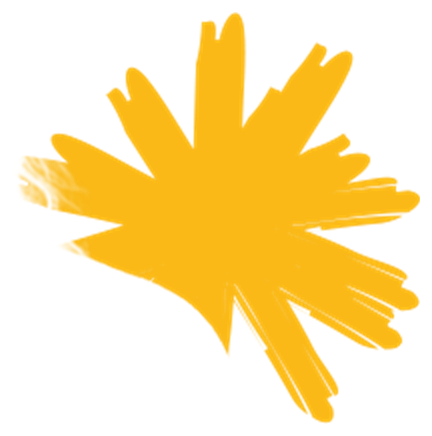
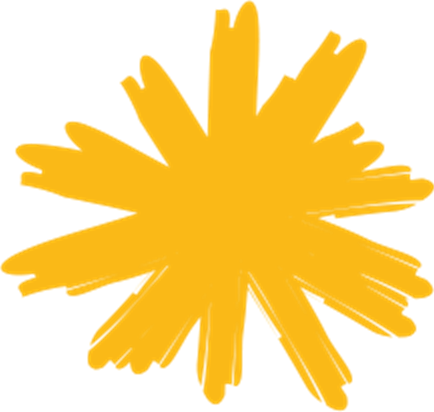
Add files via upload

Changed region(s): [[0.0, 0.0, 1.0, 1.0], [0.6319, 0.6408, 0.662, 0.6699]]

diff --git a/css/style.css b/css/style.css
@@ -72,7 +72,7 @@ button, input, textarea { font: inherit; color: inherit; }
 .skip-link:focus { top: calc(var(--u) * 16); }
 :focus-visible { outline: calc(var(--u) * 3) solid var(--green); outline-offset: calc(var(--u) * 3); }
 
-.page { position: relative; overflow: hidden; }
+.page { position: relative; overflow: hidden; overflow: clip; } /* clip: לא ניתן לגלילה בטעות (פוקוס/קרוסלה) */
 section, header.hero, footer { position: relative; }
 .deco { position: absolute; pointer-events: none; user-select: none; }
 
@@ -103,7 +103,7 @@ section, header.hero, footer { position: relative; }
 .nav {
   position: relative; z-index: 20;
   margin: calc(var(--u) * 12) calc(var(--u) * 12) 0;
-  height: calc(var(--u) * 62);
+  height: calc(var(--u) * 80);
   background: var(--white);
   display: flex; align-items: center; justify-content: space-between;
   padding: 0 calc(var(--u) * 18);
@@ -131,12 +131,12 @@ section, header.hero, footer { position: relative; }
 .nav__star { display: none; }
 
 /* ---------- hero ---------- */
-.hero { display: flex; flex-direction: column; padding-top: calc(var(--u) * 74); }
+.hero { display: flex; flex-direction: column; padding-top: calc(var(--u) * 92); }
 .hero .nav { order: 0; }
 .hero__content { order: 1; }
 .hero__photo { order: 2; }
 .hero__bg { position: absolute; inset: 0; z-index: 0; }
-.hero__scribble { z-index: 2; mix-blend-mode: color-burn; width: calc(var(--u) * 200); top: calc(var(--u) * 40); left: calc(var(--u) * -70); }
+.hero__scribble { z-index: 2; mix-blend-mode: color-burn; width: calc(var(--u) * 190); top: calc(var(--u) * -30); left: calc(var(--u) * -75); }
 .hero__dots-l   { z-index: 2; mix-blend-mode: multiply; width: calc(var(--u) * 170); bottom: calc(var(--u) * 60); left: 0; }
 .hero__dots-r   { z-index: 2; mix-blend-mode: multiply; width: calc(var(--u) * 150); top: 0; right: 0; }
 .hero__star     { z-index: 2; mix-blend-mode: multiply; width: calc(var(--u) * 120); bottom: calc(var(--u) * 150); right: calc(var(--u) * 0); }
@@ -879,6 +879,119 @@ html.a11y-still .footer__skate { translate: 70vw 0; }
 .hero__bg {
   -webkit-mask-image: linear-gradient(#000 78%, transparent 100%);
           mask-image: linear-gradient(#000 78%, transparent 100%);
+}
+
+/* =========================================================
+   סרטוני המלצה (ריילס) – ממחזר את הסקשן הירוק של התהליך
+   ========================================================= */
+.reels {
+  background: var(--green-dark);
+  padding: calc(var(--u) * 30) 0 calc(var(--u) * 140);
+  text-align: center;
+}
+/* המברשת הירוקה עולה מעל תחתית "מי אני", הצהובה יורדת אל האזור הצהוב שאחרי */
+.reels .brush--green { z-index: 2; }
+.reels .brush--yellow { z-index: 6; }
+.reels .title, .reels__text, .reels__carousel { position: relative; z-index: 7; }
+.reels .title { padding: 0 calc(var(--u) * 20); }
+.reels__text { margin-top: calc(var(--u) * 14); padding: 0 calc(var(--u) * 20); color: var(--white); font-size: calc(var(--ft) * 19); line-height: 1.15; }
+
+/* מסילה: גלילה אופקית עם הצמדה, הכרטיס הפעיל במרכז והשכנים מציצים */
+.reels__track {
+  display: flex; gap: calc(var(--u) * 18);
+  margin-top: calc(var(--u) * 16);
+  padding: calc(var(--u) * 30) calc(var(--u) * 85) calc(var(--u) * 24);
+  overflow-x: auto; overscroll-behavior-x: contain;
+  scroll-snap-type: x mandatory; scrollbar-width: none;
+}
+.reels__track::-webkit-scrollbar { display: none; }
+.reel { flex: 0 0 calc(var(--u) * 260);scroll-snap-align: center; position: relative; transition: scale .4s cubic-bezier(.2,.7,.2,1), opacity .4s; }
+.reel:nth-child(1) { rotate: -2.5deg; }
+.reel:nth-child(2) { rotate: 2deg; }
+.reel:nth-child(3) { rotate: -1.5deg; }
+/* סלוטייפ כמו בהמלצות הוואטסאפ */
+.reel::before {
+  content: ""; position: absolute; z-index: 3; top: calc(var(--u) * -14); left: 50%;
+  width: calc(var(--u) * 90); height: calc(var(--u) * 28);
+  translate: -50% 0; rotate: var(--tape, -6deg);
+  background: rgba(238, 230, 205, .85);
+  box-shadow: 0 calc(var(--u) * 1) calc(var(--u) * 3) rgba(0,0,0,.15);
+  clip-path: polygon(0 8%, 6% 0, 10% 12%, 15% 2%, 85% 0, 90% 10%, 94% 0, 100% 9%, 97% 50%, 100% 92%, 93% 100%, 88% 88%, 83% 100%, 15% 98%, 10% 88%, 5% 100%, 0 92%, 3% 50%);
+}
+.reel:nth-child(2)::before { --tape: 5deg; }
+.reel__frame {
+  position: relative; aspect-ratio: 9 / 16; overflow: hidden;
+  background: #0b5a55;
+  border: calc(var(--u) * 6) solid var(--white);
+  box-shadow: 0 calc(var(--u) * 10) calc(var(--u) * 24) rgba(0,0,0,.3);
+}
+.reel__frame video { width: 100%; height: 100%; object-fit: cover; background: #000; }
+.reel__empty {
+  position: absolute; inset: 0;
+  display: flex; flex-direction: column; align-items: center; justify-content: center; gap: calc(var(--u) * 14);
+  color: var(--mint); font-size: calc(var(--ft) * 16);
+  background: repeating-linear-gradient(-45deg, rgba(14,224,174,.06) 0 calc(var(--u) * 10), transparent calc(var(--u) * 10) calc(var(--u) * 20));
+}
+.reel__play {
+  width: calc(var(--u) * 64); height: calc(var(--u) * 64); border-radius: 50%;
+  background: var(--yellow); position: relative;
+  transition: transform .35s cubic-bezier(.3,1.6,.5,1);
+}
+.reel__play::after {
+  content: ""; position: absolute; top: 50%; left: 54%; translate: -50% -50%;
+  border-style: solid; border-color: transparent transparent transparent var(--ink);
+  border-width: calc(var(--u) * 11) 0 calc(var(--u) * 11) calc(var(--u) * 18);
+}
+.reel:hover .reel__play { transform: scale(1.1) rotate(-6deg); }
+
+/* כרטיסים שאינם במרכז קטנים ומעומעמים מעט (במובייל בלבד – JS מסמן is-active) */
+.reels__track.is-ready .reel:not(.is-active):not(.reveal), .reels__track.is-ready .reel.is-visible:not(.is-active) { scale: .9; opacity: .65; }
+.js .reel.reveal { transition: opacity .9s ease, transform .9s cubic-bezier(.2,.7,.2,1), scale .4s cubic-bezier(.2,.7,.2,1); transition-delay: var(--delay, 0s), var(--delay, 0s), 0s; }
+
+.reels__controls { display: flex; align-items: center; justify-content: center; gap: calc(var(--u) * 18); margin-top: calc(var(--u) * 4); }
+.reels__btn {
+  width: calc(var(--u) * 46); height: calc(var(--u) * 46); border-radius: 50%; border: 0; padding: 0; cursor: pointer;
+  background: var(--yellow); color: var(--ink);
+  display: flex; align-items: center; justify-content: center;
+  transition: transform .3s cubic-bezier(.3,1.6,.5,1), opacity .2s;
+}
+.reels__btn svg { width: 50%; height: 50%; }
+.reels__btn:hover { transform: rotate(-8deg) scale(1.08); }
+.reels__btn[disabled] { opacity: .35; cursor: default; transform: none; }
+.reels__dots { display: flex; gap: calc(var(--u) * 8); }
+.reels__dot {
+  width: calc(var(--u) * 10); height: calc(var(--u) * 10); padding: 0; border: 0; border-radius: calc(var(--u) * 10); cursor: pointer;
+  background: rgba(255,255,255,.4); transition: width .3s, background-color .3s;
+}
+.reels__dot[aria-current="true"] { width: calc(var(--u) * 28); background: var(--mint); }
+
+@media (min-width: 768px) {
+  .reels { padding: calc(var(--u) * 40) calc(var(--u) * 60) calc(var(--u) * 230); }
+  .reels__text { font-size: calc(var(--ft) * 22); }
+  /* בטאבלט ומעלה שלושת הסרטונים נכנסים בשורה – בלי קרוסלה */
+  .reels__track { overflow: visible; justify-content: center; gap: calc(var(--u) * 40); padding: calc(var(--u) * 40) 0 0; margin-top: calc(var(--u) * 20); }
+  .reel { flex: 0 0 calc(var(--u) * 250); }
+  .reel:nth-child(2) { translate: 0 calc(var(--u) * 30); }
+  .reels__track.is-ready .reel.is-visible:not(.is-active), .reels__track.is-ready .reel:not(.is-active):not(.reveal) { scale: none; opacity: 1; }
+  .reels__controls, .reels__text .mobile-br { display: none; }
+  .reel__empty { font-size: calc(var(--ft) * 18); }
+  .reels .brush--yellow { bottom: calc(var(--u) * -330); }
+}
+@media (min-width: 1200px) {
+  .reels { min-height: calc(var(--u) * 1180); padding: calc(var(--u) * 49) 0 calc(var(--u) * 360); }
+  .reels__text { margin-top: calc(var(--u) * 24); font-size: calc(var(--ft) * 32); }
+  .reels__track { gap: calc(var(--u) * 70); padding-top: calc(var(--u) * 60); }
+  .reel { flex-basis: calc(var(--u) * 340); }
+  .reel:nth-child(2) { translate: 0 calc(var(--u) * 50); }
+  .reel::before { top: calc(var(--u) * -22); width: calc(var(--u) * 140); height: calc(var(--u) * 42); }
+  .reel__frame { border-width: calc(var(--u) * 10); }
+  .reel__play { width: calc(var(--u) * 96); height: calc(var(--u) * 96); }
+  .reel__play::after { border-width: calc(var(--u) * 16) 0 calc(var(--u) * 16) calc(var(--u) * 26); }
+  .reel__empty { font-size: calc(var(--ft) * 24); gap: calc(var(--u) * 20); }
+  .reels .brush--yellow { top: auto; bottom: calc(var(--u) * -634); }
+}
+@media (prefers-reduced-motion: reduce) {
+  .reels__track { scroll-behavior: auto; }
 }
 
 /* פרויקטים במובייל: שני טורים, קומפקטי */

diff --git a/index.html b/index.html
@@ -13,10 +13,10 @@
   <link rel="icon" href="assets/logo.svg" type="image/svg+xml">
   <link rel="preload" href="fonts/Danidin-CondensedBlack.woff2" as="font" type="font/woff2" crossorigin>
   <link rel="preload" href="fonts/Polin-Regular.woff2" as="font" type="font/woff2" crossorigin>
-  <link rel="stylesheet" href="css/style.css?v=9">
-  <link rel="stylesheet" href="css/a11y.css?v=9">
+  <link rel="stylesheet" href="css/style.css?v=11">
+  <link rel="stylesheet" href="css/a11y.css?v=11">
   <script>document.documentElement.classList.add("js");</script>
-  <script src="js/a11y.js?v=9"></script>
+  <script src="js/a11y.js?v=11"></script>
 </head>
 <body>
 <a class="skip-link" href="#main">דילוג לתוכן הראשי</a>
@@ -49,7 +49,7 @@
     <img class="deco hero__scribble" src="assets/scribble-teal.svg" alt="" aria-hidden="true">
     <img class="deco hero__dots-l" src="assets/dots-left.jpg" alt="" aria-hidden="true">
     <img class="deco hero__dots-r" src="assets/dots-right.jpg" alt="" aria-hidden="true">
-    <img class="deco hero__star" src="assets/star-yellow.png" alt="" aria-hidden="true">
+    <img class="deco hero__star" src="assets/star-yellow.png?v=11" alt="" aria-hidden="true">
     <img class="hero__photo" src="assets/amit-hero.jpg" alt="עמית סיגאוי מחייכת עם כובע טמבל" width="940" height="918" fetchpriority="high">
     <img class="deco brush brush--hero" src="assets/brush-white.svg" alt="" aria-hidden="true">
 
@@ -100,7 +100,6 @@
     <!-- ===== ABOUT ===== -->
     <section class="about" id="about" aria-labelledby="about-title">
       <div class="about__bg" aria-hidden="true"></div>
-      <img class="deco brush brush--yellow" src="assets/brush-yellow.svg" alt="" aria-hidden="true">
 
       <div class="about__badge">
         <img class="about__badge-bg" src="assets/brush-dark.svg" alt="" aria-hidden="true">
@@ -126,6 +125,47 @@
         <figure class="chat chat--2"><img src="assets/chat-2.jpg" alt="הודעת וואטסאפ: המיתוג ממש מזניק הכל!" loading="lazy" width="584" height="115"></figure>
         <figure class="chat chat--3"><img src="assets/chat-3.jpg" alt="שיחת וואטסאפ עם לקוח שמספר שהאתר נראה מקצועי ושכבר קיבל עשרות פניות" loading="lazy" width="744" height="759"></figure>
       </div>
+    </section>
+
+    <!-- ===== REELS – סרטוני המלצה =====
+         להוספת סרטון: מחליפים את <div class="reel__empty">…</div> של אותה המלצה ב:
+         <video src="assets/reels/reel-1.mp4" poster="assets/reels/reel-1.jpg" controls playsinline preload="none"></video>
+         (הסרטון אנכי 9:16, עדיף MP4 עד ~15MB; ה-poster הוא תמונת הפתיחה) -->
+    <section class="reels" id="reviews" aria-labelledby="reels-title">
+      <img class="deco brush brush--green" src="assets/brush-green.svg" alt="" aria-hidden="true">
+      <h2 class="title title--mint" id="reels-title">אל תסמכו רק עליי</h2>
+      <p class="reels__text">הנה מה ש<strong>הלקוחות שלי מספרים</strong><br class="mobile-br"> אחרי שעבדנו יחד</p>
+
+      <div class="reels__carousel">
+        <ul class="reels__track" aria-label="סרטוני המלצה">
+          <li class="reel">
+            <div class="reel__frame">
+              <div class="reel__empty"><span class="reel__play" aria-hidden="true"></span><span>סרטון המלצה בקרוב</span></div>
+            </div>
+          </li>
+          <li class="reel">
+            <div class="reel__frame">
+              <div class="reel__empty"><span class="reel__play" aria-hidden="true"></span><span>סרטון המלצה בקרוב</span></div>
+            </div>
+          </li>
+          <li class="reel">
+            <div class="reel__frame">
+              <div class="reel__empty"><span class="reel__play" aria-hidden="true"></span><span>סרטון המלצה בקרוב</span></div>
+            </div>
+          </li>
+        </ul>
+        <div class="reels__controls">
+          <button class="reels__btn reels__btn--prev" type="button" aria-label="ההמלצה הקודמת">
+            <svg viewBox="0 0 24 24" aria-hidden="true"><path d="M9 5l7 7-7 7" fill="none" stroke="currentColor" stroke-width="2.4" stroke-linecap="round" stroke-linejoin="round"/></svg>
+          </button>
+          <div class="reels__dots"></div>
+          <button class="reels__btn reels__btn--next" type="button" aria-label="ההמלצה הבאה">
+            <svg viewBox="0 0 24 24" aria-hidden="true"><path d="M15 5l-7 7 7 7" fill="none" stroke="currentColor" stroke-width="2.4" stroke-linecap="round" stroke-linejoin="round"/></svg>
+          </button>
+        </div>
+      </div>
+
+      <img class="deco brush brush--yellow" src="assets/brush-yellow.svg" alt="" aria-hidden="true">
     </section>
 
     <!-- ===== INSTAGRAM (מתעדכן אוטומטית דרך Behold – ראו config.js) ===== -->
@@ -227,7 +267,7 @@
 
 </div>
 
-<script src="js/config.js?v=9"></script>
-<script src="js/main.js?v=9"></script>
+<script src="js/config.js?v=11"></script>
+<script src="js/main.js?v=11"></script>
 </body>
 </html>

diff --git a/js/main.js b/js/main.js
@@ -27,6 +27,7 @@
     [".card"],
     [".process .title", ".process__text", ".video"],
     [".about__badge", ".about__text--a", ".about__text--b", ".about__photo"],
+    [".reels .title", ".reels__text", ".reel"],
     [".chat"],
     [".contact__kicker", ".contact .title", ".contact__text", ".form-wrap"]
   ];
@@ -76,6 +77,59 @@
     window.addEventListener("resize", onScroll);
     window.addEventListener("a11ychange", onScroll);
     update();
+  }
+
+  // ---------- reels carousel (פעיל רק כשהמסילה נגללת – במובייל) ----------
+  var track = document.querySelector(".reels__track");
+  if (track) {
+    var reels = Array.prototype.slice.call(track.querySelectorAll(".reel"));
+    var dotsWrap = document.querySelector(".reels__dots");
+    var prevBtn = document.querySelector(".reels__btn--prev");
+    var nextBtn = document.querySelector(".reels__btn--next");
+    var current = 0;
+    var dots = reels.map(function (r, i) {
+      var d = document.createElement("button");
+      d.type = "button"; d.className = "reels__dot";
+      d.setAttribute("aria-label", "המלצה " + (i + 1) + " מתוך " + reels.length);
+      d.addEventListener("click", function () { goTo(i); });
+      dotsWrap.appendChild(d);
+      return d;
+    });
+    var setActive = function (i) {
+      current = i;
+      reels.forEach(function (r, j) { r.classList.toggle("is-active", j === i); });
+      dots.forEach(function (d, j) { d.setAttribute("aria-current", j === i ? "true" : "false"); });
+      prevBtn.disabled = i === 0;
+      nextBtn.disabled = i === reels.length - 1;
+    };
+    var goTo = function (i) {
+      i = Math.max(0, Math.min(reels.length - 1, i));
+      // ממרכזים לפי מיקום (עובד גם ב-RTL, בלי לגלול את העמוד אנכית)
+      var t = track.getBoundingClientRect(), r = reels[i].getBoundingClientRect();
+      track.scrollBy({ left: (r.left + r.width / 2) - (t.left + t.width / 2), behavior: reduceMotion ? "auto" : "smooth" });
+      setActive(i);
+    };
+    prevBtn.addEventListener("click", function () { goTo(current - 1); });
+    nextBtn.addEventListener("click", function () { goTo(current + 1); });
+    var syncFromScroll = function () {
+      var t = track.getBoundingClientRect(), mid = t.left + t.width / 2, best = 0, bestD = Infinity;
+      reels.forEach(function (r, i) {
+        var b = r.getBoundingClientRect(), dist = Math.abs(b.left + b.width / 2 - mid);
+        if (dist < bestD) { bestD = dist; best = i; }
+      });
+      if (best !== current) setActive(best);
+    };
+    var scrollTick = false;
+    track.addEventListener("scroll", function () {
+      if (!scrollTick) { scrollTick = true; requestAnimationFrame(function () { scrollTick = false; syncFromScroll(); }); }
+    }, { passive: true });
+    setActive(0);
+    track.classList.add("is-ready");
+
+    // רק סרטון אחד מתנגן בכל פעם
+    track.addEventListener("play", function (e) {
+      track.querySelectorAll("video").forEach(function (v) { if (v !== e.target) v.pause(); });
+    }, true);
   }
 
   // ---------- sticky header ----------

diff --git a/privacy.html b/privacy.html
@@ -5,10 +5,10 @@
   <meta name="viewport" content="width=device-width, initial-scale=1">
   <title>מדיניות פרטיות | עמית סיגאוי</title>
   <link rel="icon" href="assets/logo.svg" type="image/svg+xml">
-  <link rel="stylesheet" href="css/style.css?v=9">
-  <link rel="stylesheet" href="css/legal.css?v=9">
-  <link rel="stylesheet" href="css/a11y.css?v=9">
-  <script src="js/a11y.js?v=9"></script>
+  <link rel="stylesheet" href="css/style.css?v=10">
+  <link rel="stylesheet" href="css/legal.css?v=10">
+  <link rel="stylesheet" href="css/a11y.css?v=10">
+  <script src="js/a11y.js?v=10"></script>
 </head>
 <body>
 <div class="page">

diff --git a/accessibility.html b/accessibility.html
@@ -5,10 +5,10 @@
   <meta name="viewport" content="width=device-width, initial-scale=1">
   <title>הצהרת נגישות | עמית סיגאוי</title>
   <link rel="icon" href="assets/logo.svg" type="image/svg+xml">
-  <link rel="stylesheet" href="css/style.css?v=9">
-  <link rel="stylesheet" href="css/legal.css?v=9">
-  <link rel="stylesheet" href="css/a11y.css?v=9">
-  <script src="js/a11y.js?v=9"></script>
+  <link rel="stylesheet" href="css/style.css?v=10">
+  <link rel="stylesheet" href="css/legal.css?v=10">
+  <link rel="stylesheet" href="css/a11y.css?v=10">
+  <script src="js/a11y.js?v=10"></script>
 </head>
 <body>
 <div class="page">
